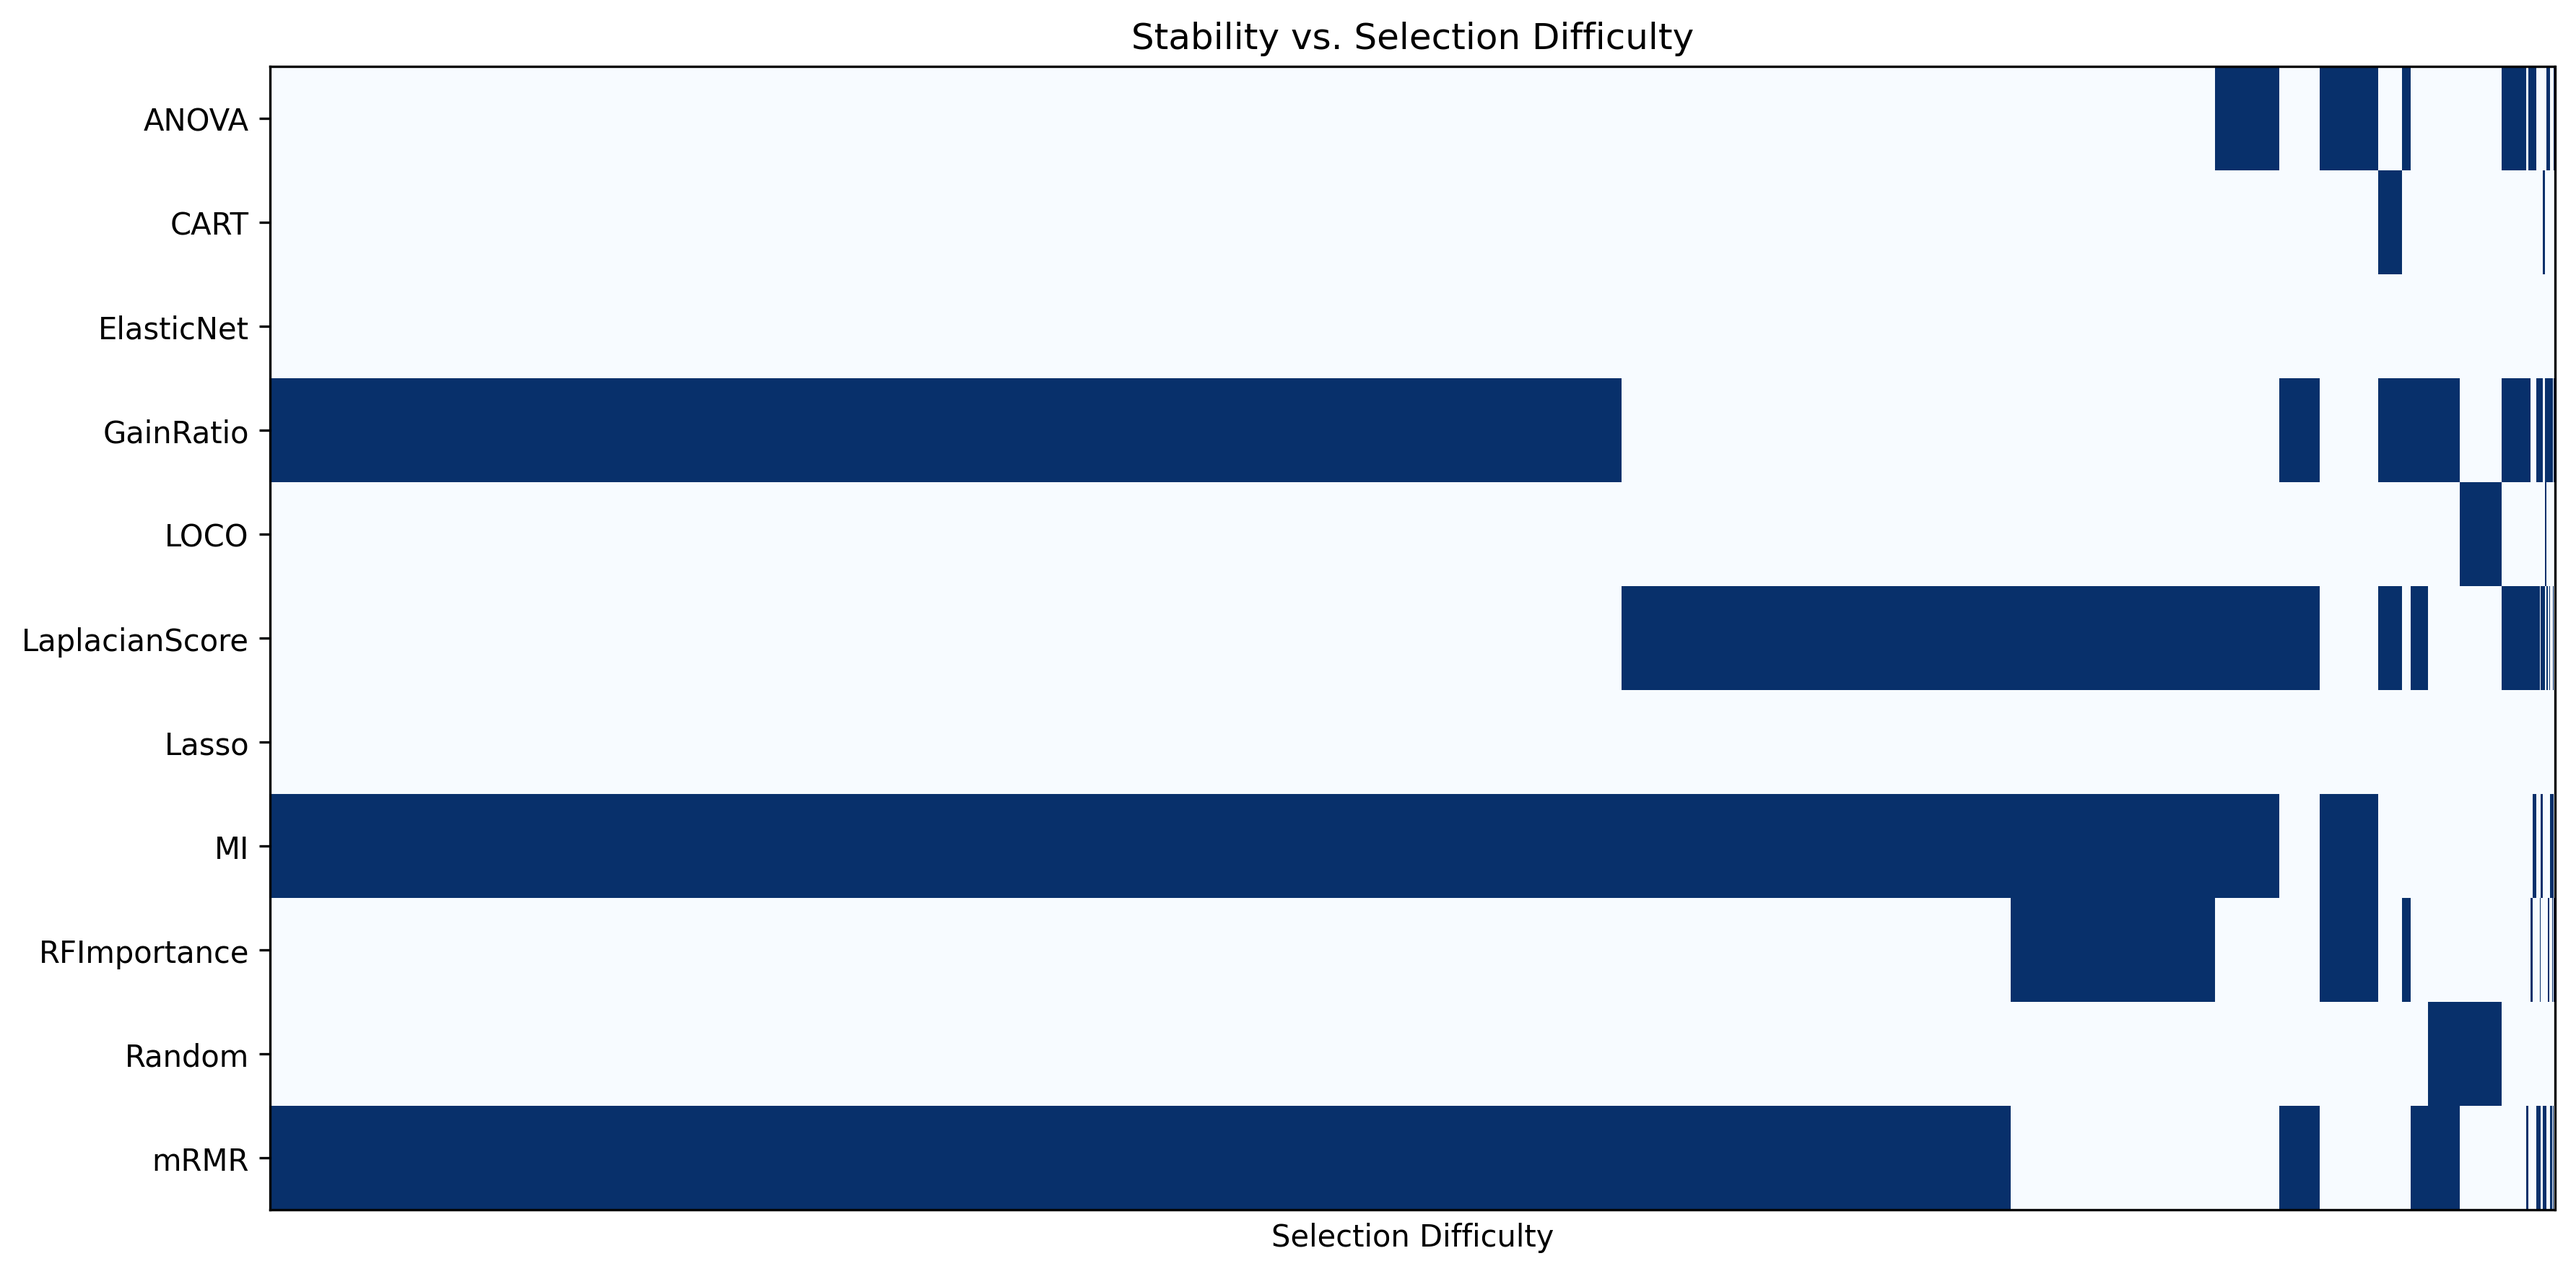
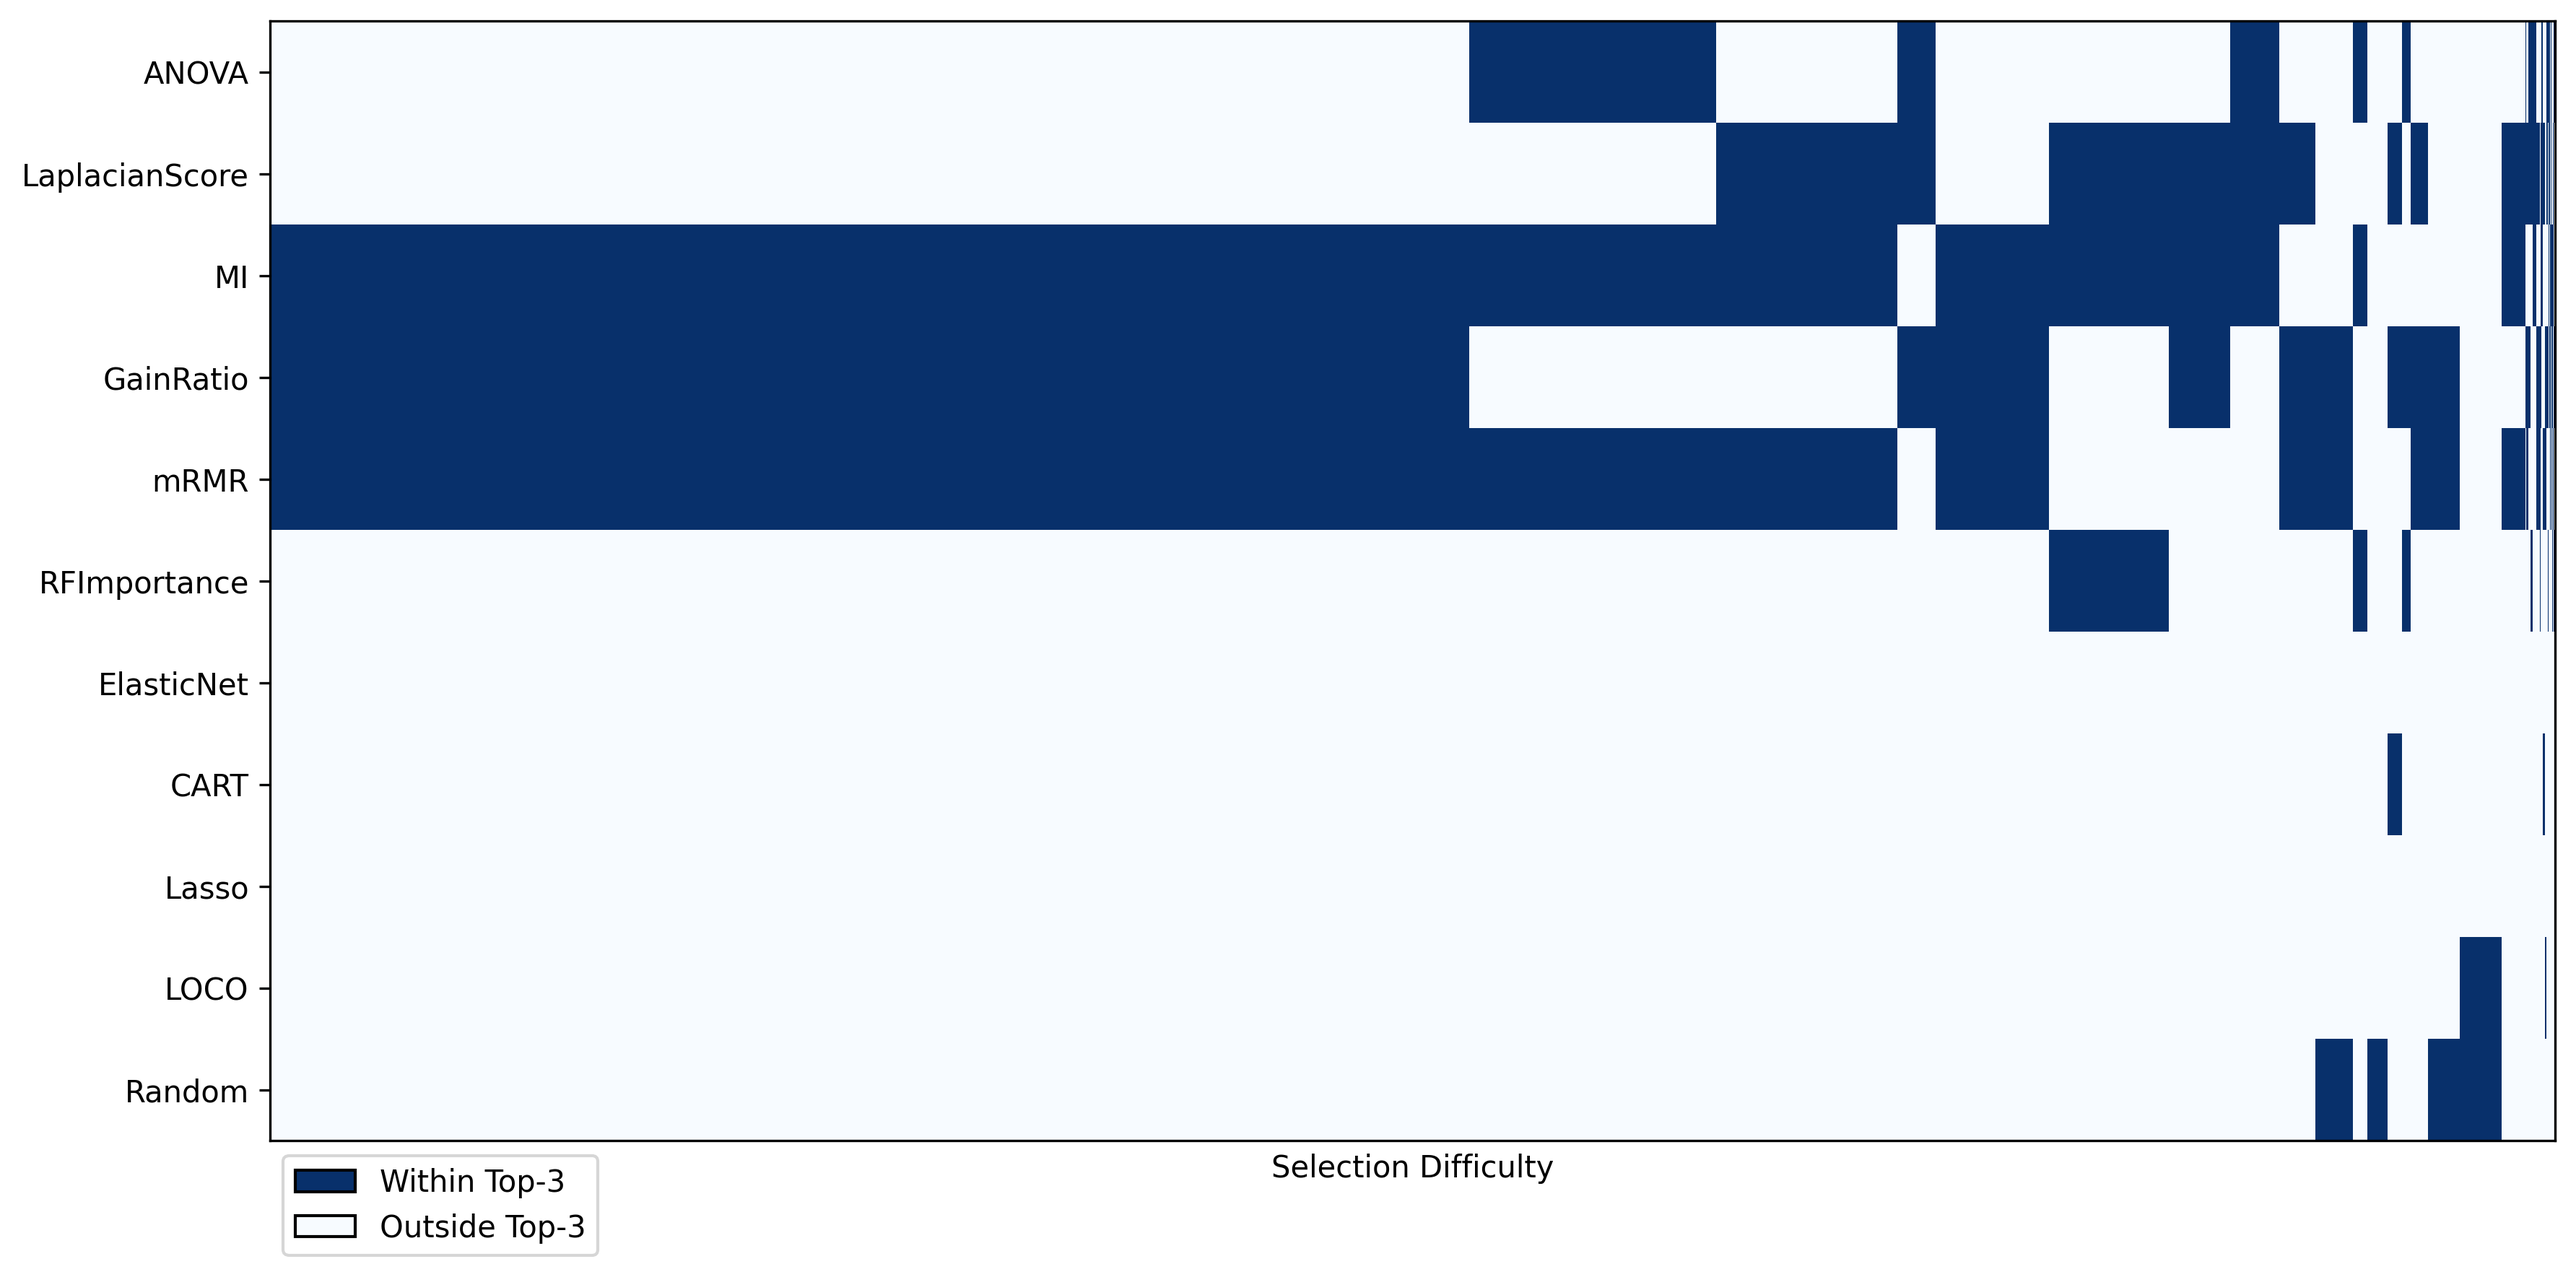
maint: add num_classes

diff --git a/plotting_code/stability/stability_per_EPV_v1.py b/plotting_code/stability/stability_per_EPV_v1.py
@@ -1,4 +1,6 @@
 import ast
+
+import numpy as np
 import pandas as pd
 import sys
 
@@ -10,13 +12,13 @@ FILE_NAME = "stability_results.csv"
 PLOT_NAME = "stability_per_EPV_v1"
 
 # TODO: Adapt title and labels
-PLOT_TITLE = "Stability vs. Selection Difficulty"
+PLOT_TITLE = ""
 X_LABEL = "Selection Difficulty"
 Y_LABEL = ""
 
 # TODO: Adapt lasagna plot metric and smoothing
 METRIC = "stability"
-SMOOTHING = 20
+SMOOTHING = 10
 
 # Do nothing below
 SCRIPT_DIR = Path(__file__).parent / "../../"
@@ -25,7 +27,7 @@ OUTPUT_DIR = SCRIPT_DIR / "generated_plots/stability"
 OUTPUT_DIR.mkdir(parents=True, exist_ok=True)
 OUTPUT_PATH = OUTPUT_DIR / PLOT_NAME
 
-def overwrite_min_samples_from_validity(df_stability, df_validity):
+def overwrite_min_samples_from_validity(df_stability, df_validity, df_results):
     """
     Overwrites 'min_samples_per_class' in df_stability using the true values
     from df_validity, matched solely on 'data_foundry_task_id'.
@@ -47,6 +49,27 @@ def overwrite_min_samples_from_validity(df_stability, df_validity):
     # it safely falls back to whatever value it originally had in stability.
     df_stab["min_samples_per_class"] = new_min_samples.fillna(df_stab["min_samples_per_class"])
 
+    # 5. Extract the clean 'tid' from the 'data_foundry_task_id' string
+    df_stab["temp_tid"] = df_stab["data_foundry_task_id"].apply(
+        lambda x: int(str(x).split("|")[1]) if pd.notna(x) and "|" in str(x) else np.nan
+    )
+
+    # 6. Create a mapping dictionary for {tid: problem_type} from results_per_split.csv
+    # We drop duplicates to ensure we have exactly one problem_type per tid
+    res_dedup = df_results.dropna(subset=["tid", "problem_type"]).drop_duplicates(subset=["tid"], keep="first")
+    problem_type_mapping = res_dedup.set_index("tid")["problem_type"].to_dict()
+
+    # 7. Map the problem_type onto our stability dataframe
+    df_stab["temp_problem_type"] = df_stab["temp_tid"].map(problem_type_mapping)
+
+    # 8. Find all rows where the problem type is regression and force min_samples_per_class to NaN
+    # We use .str.lower() to make the check case-insensitive (handles 'Regression' or 'regression')
+    is_regression = df_stab["temp_problem_type"].str.lower() == "regression"
+    df_stab.loc[is_regression, "min_samples_per_class"] = np.nan
+
+    # 9. Clean up the temporary helper columns, so we return the dataframe in its original shape
+    df_stab = df_stab.drop(columns=["temp_tid", "temp_problem_type"])
+
     return df_stab
 
 
@@ -57,6 +80,7 @@ def main():
 
     df_validity = pd.read_csv(SCRIPT_DIR / "result_files/validity_results.csv", low_memory=False)
     df_stability = pd.read_csv(RESULTS_FILE, low_memory=False)
+    df_results = pd.read_csv(SCRIPT_DIR / "result_files/results_per_split.csv", low_memory=False)
 
     stab_datasets = set(df_stability["data_foundry_task_id"].dropna().unique())
     val_datasets = set(df_validity["data_foundry_task_id"].dropna().unique())
@@ -68,7 +92,7 @@ def main():
     print(f"Total datasets in validity: {len(val_datasets)}")
     print(f"Datasets in stability but NOT in validity ({len(missing_in_validity)} total):")
 
-    df = overwrite_min_samples_from_validity(df_stability, df_validity)
+    df = overwrite_min_samples_from_validity(df_stability, df_validity, df_results)
 
     unique_counts = df.groupby("data_foundry_task_id")["min_samples_per_class"].nunique(dropna=False)
 
@@ -102,8 +126,6 @@ def main():
     else:
         print("✅ All datasets have consistent EPV values.")
 
-
-
     # TODO: adapt if stability estimation is not over all repeats
     df_plot = (
         df.groupby(["dataset", "selector", "epv", "max_features"])
@@ -117,11 +139,6 @@ def main():
         .reset_index(name="stability")
     )
 
-    # mean stability over max_features (cardinality)
-    """df_plot = (
-        df_plot.groupby(["dataset", "selector", "epv"], as_index=False)["stability"]
-        .mean()
-    )"""
     df_plot = (
         df_plot.groupby(["selector", "epv"], as_index=False)["stability"]
         .mean()
@@ -138,7 +155,9 @@ def main():
                 output_path=OUTPUT_PATH,
                 smoothing=SMOOTHING,
                 binary_mode=binary_mode,
-                overlay=overlay
+                overlay=overlay,
+                mode="stability",
+                sort_methods="mean_value"
             )
 
 

diff --git a/plotting_code/datasets/datasets_features_samples_v1.py b/plotting_code/datasets/datasets_features_samples_v1.py
@@ -9,42 +9,72 @@ FILE_NAME = "data_foundry.csv"
 PLOT_NAME = "dataset_features_samples_v1.png"
 
 # TODO: Adapt title and labels
-PLOT_TITLE = "Dummy Plot"
-X_LABEL = "Feature Selection Method"
-Y_LABEL = "Metric Error"
+PLOT_TITLE = "Dataset Characteristics (Samples vs Features)"
+X_LABEL = "Number of Samples"
+Y_LABEL = "Number of Features"
 
-# TODO: Adapt plotting function
+
 def plot(df):
-    # Parse number of features and samples (adjust column names as needed)
+    # Parse number of features, samples, and classes
     df["n_features"] = pd.to_numeric(df["# features"], errors="coerce")
     df["n_samples"] = pd.to_numeric(df["samples"], errors="coerce")
+    df["n_classes"] = pd.to_numeric(df["# classes"], errors="coerce")
 
-    # Filter valid data
+    # Filter valid data for the axes
     dataset_data = df.dropna(subset=["n_features", "n_samples"])
+
+    # Split into Classification (has classes) and Regression (NaN classes)
+    df_class = dataset_data[dataset_data["n_classes"].notna()]
+    df_reg = dataset_data[dataset_data["n_classes"].isna()]
 
     fig, ax = plt.subplots(figsize=(12, 8))
 
-    # Scatter plot: samples (x) vs features (y)
-    scatter = ax.scatter(
-        dataset_data["n_samples"],
-        dataset_data["n_features"],
-        alpha=0.7,
-        s=80,
-        edgecolors="black",
-        linewidth=1,
-        c="tab:blue"
-    )
+    # 1. Plot Classification datasets (Color-coded by num_classes)
+    if not df_class.empty:
+        scatter_class = ax.scatter(
+            df_class["n_samples"],
+            df_class["n_features"],
+            c=df_class["n_classes"],
+            cmap="Blues",
+            vmin=0,  # Set to 0 so '2' isn't purely white/invisible, making it light blue
+            vmax=df_class["n_classes"].max(),
+            alpha=0.8,
+            s=80,
+            edgecolors="black",
+            linewidth=1,
+            label="Classification"
+        )
 
-    ax.set_xlabel("Number of Samples")
-    ax.set_ylabel("Number of Features")
-    ax.set_title("Dataset Characteristics (Samples vs Features)")
+        # Add a colorbar specifically for the classification scatter
+        cbar = fig.colorbar(scatter_class, ax=ax, pad=0.02)
+        cbar.set_label("Number of Classes", rotation=270, labelpad=15)
+
+    # 2. Plot Regression datasets (Solid Green)
+    if not df_reg.empty:
+        scatter_reg = ax.scatter(
+            df_reg["n_samples"],
+            df_reg["n_features"],
+            color="#55A868",  # A nice visible green
+            alpha=0.8,
+            s=80,
+            edgecolors="black",
+            linewidth=1,
+            label="Regression"
+        )
+
+    ax.set_xlabel(X_LABEL)
+    ax.set_ylabel(Y_LABEL)
+    ax.set_title(PLOT_TITLE)
     ax.grid(True, alpha=0.3)
 
-    # Log scale for better visualization (common for dataset characteristics)
+    # Log scale for better visualization
     ax.set_xscale("log")
     ax.set_yscale("log")
 
-    # Add dataset count
+    # Display the standard legend (shows Classification vs Regression dots)
+    ax.legend(loc="lower right")
+
+    # Add dataset count annotation
     ax.text(0.02, 0.98, f"N = {len(dataset_data)} datasets",
             transform=ax.transAxes, va="top", ha="left",
             bbox=dict(boxstyle="round,pad=0.3", facecolor="white", alpha=0.8))
@@ -53,6 +83,8 @@ def plot(df):
     out = OUTPUT_DIR / PLOT_NAME
     plt.savefig(out, dpi=150, bbox_inches="tight")
     plt.close()
+
+    print(f"✅ Plot saved to {out}")
 
 
 # Do nothing below
